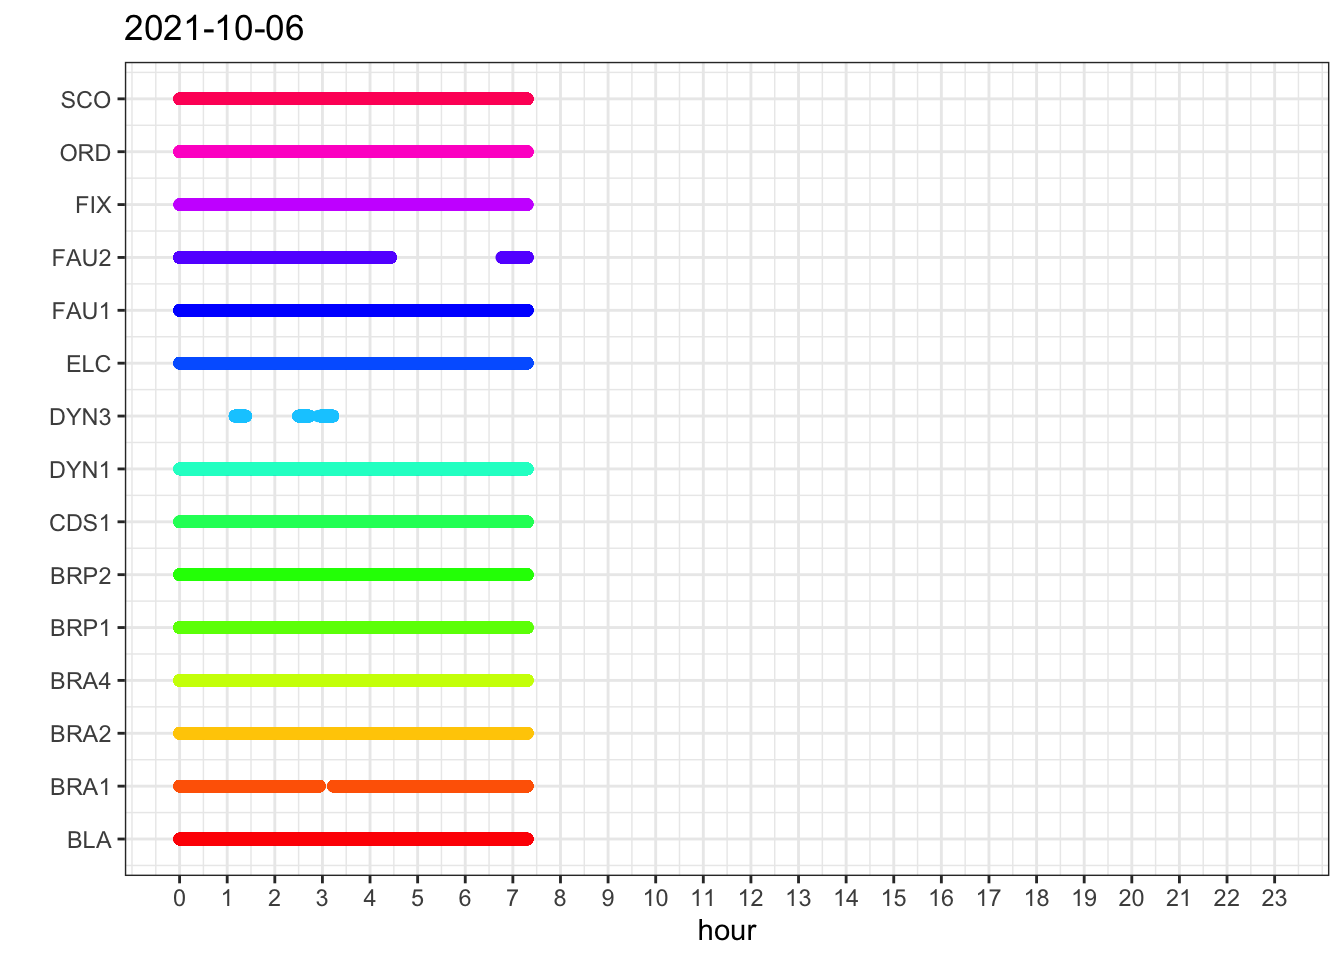
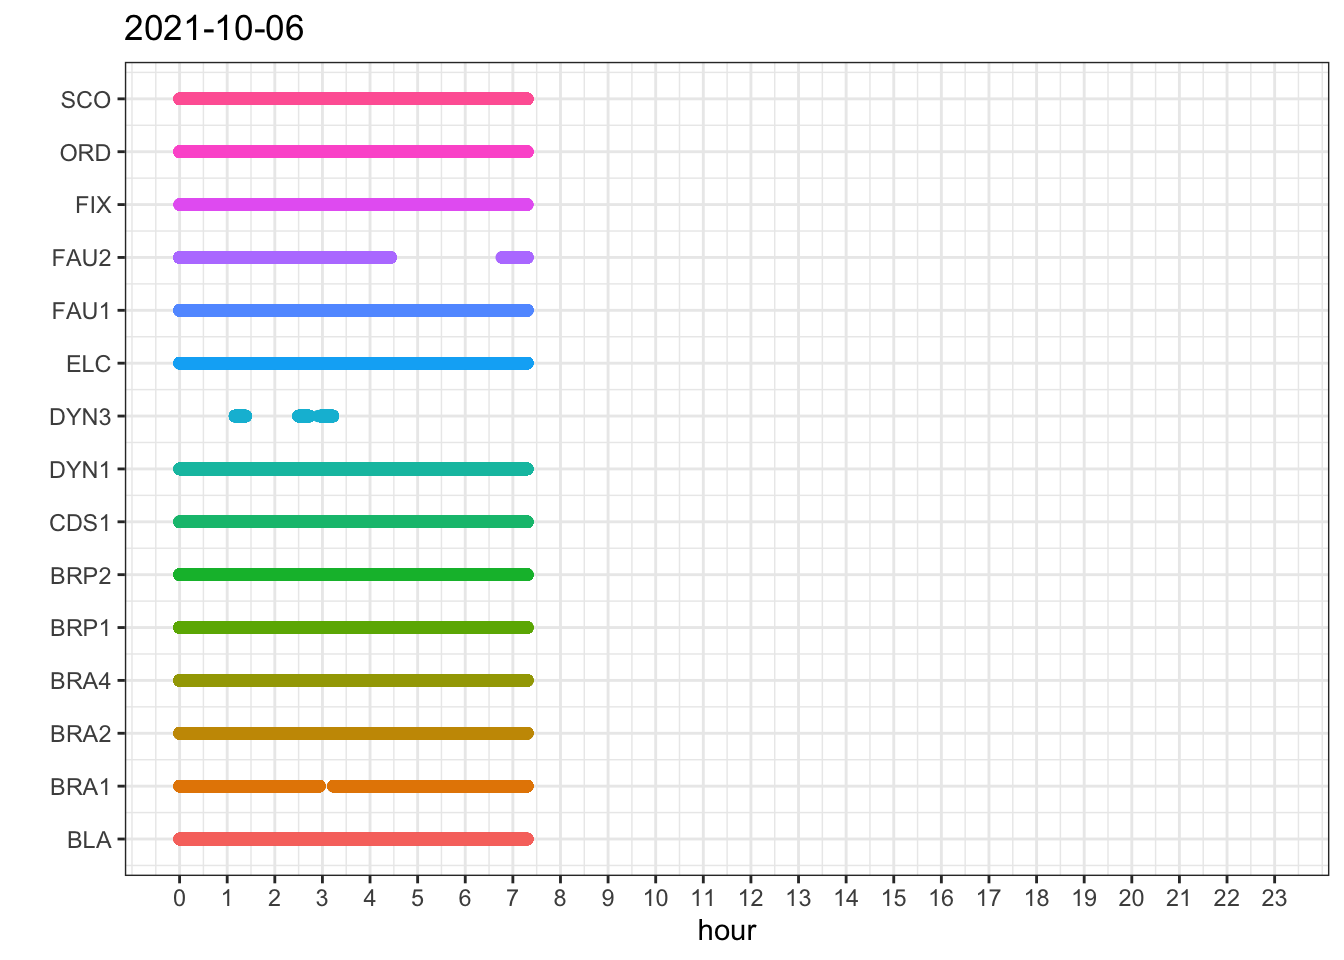
Build site.

diff --git a/docs/2021-10-06.html b/docs/2021-10-06.html
@@ -500,16 +500,16 @@ This reproducible <a href="http://rmarkdown.rstudio.com">R Markdown</a> analysis
 <div class="panel panel-default">
 <div class="panel-heading">
 <p class="panel-title">
-<a data-toggle="collapse" data-parent="#workflowr-checks" href="#strongRepositoryversionstrongahrefhttpsgithubcomcfcforeverTesttreed4686a5b7c323b6f8fc9f6ed21d5f6a88f3306fdtargetblankd4686a5a"> <span class="glyphicon glyphicon-ok text-success" aria-hidden="true"></span> <strong>Repository version:</strong> <a href="https://github.com/cfcforever/Test/tree/d4686a5b7c323b6f8fc9f6ed21d5f6a88f3306fd" target="_blank">d4686a5</a> </a>
+<a data-toggle="collapse" data-parent="#workflowr-checks" href="#strongRepositoryversionstrongahrefhttpsgithubcomcfcforeverTesttreecac84e2437b4902e4ec6ff223ca0dc577ba91d70targetblankcac84e2a"> <span class="glyphicon glyphicon-ok text-success" aria-hidden="true"></span> <strong>Repository version:</strong> <a href="https://github.com/cfcforever/Test/tree/cac84e2437b4902e4ec6ff223ca0dc577ba91d70" target="_blank">cac84e2</a> </a>
 </p>
 </div>
[2 lines of base64/hex data omitted]
 <div class="panel-body">
 <p>
 Great! You are using Git for version control. Tracking code development and connecting the code version to the results is critical for reproducibility.
 </p>
 <p>
-The results in this page were generated with repository version <a href="https://github.com/cfcforever/Test/tree/d4686a5b7c323b6f8fc9f6ed21d5f6a88f3306fd" target="_blank">d4686a5</a>. See the <em>Past versions</em> tab to see a history of the changes made to the R Markdown and HTML files.
+The results in this page were generated with repository version <a href="https://github.com/cfcforever/Test/tree/cac84e2437b4902e4ec6ff223ca0dc577ba91d70" target="_blank">cac84e2</a>. See the <em>Past versions</em> tab to see a history of the changes made to the R Markdown and HTML files.
 </p>
 <p>
 Note that you need to be careful to ensure that all relevant files for the analysis have been committed to Git prior to generating the results (you can use <code>wflow_publish</code> or <code>wflow_git_commit</code>). workflowr only checks the R Markdown file, but you know if there are other scripts or data files that it depends on. Below is the status of the Git repository when the results were generated:
@@ -519,12 +519,16 @@ Ignored files:
     Ignored:    .DS_Store
     Ignored:    .Rhistory
     Ignored:    .Rproj.user/
+    Ignored:    analysis/figure/
     Ignored:    data/.DS_Store
     Ignored:    data/Stabiliseur/
     Ignored:    data/json/
     Ignored:    data/plan/
     Ignored:    fig/
     Ignored:    workflowr.R
+
+Unstaged changes:
+    Modified:   code/packages_and_functions.R
 
 </code></pre>
 <p>
@@ -563,6 +567,40 @@ Message
 </tr>
 </thead>
 <tbody>
+<tr>
+<td>
+Rmd
+</td>
+<td>
+<a href="https://github.com/cfcforever/Test/blob/cac84e2437b4902e4ec6ff223ca0dc577ba91d70/analysis/2021-10-06.Rmd" target="_blank">cac84e2</a>
+</td>
+<td>
+cfcforever
+</td>
+<td>
+2021-10-06
+</td>
+<td>
+add new analysis
+</td>
+</tr>
+<tr>
+<td>
+html
+</td>
+<td>
+<a href="https://rawcdn.githack.com/cfcforever/Test/55e4cbfdf40e23aa346b6b56a73a1f43a320be62/docs/2021-10-06.html" target="_blank">55e4cbf</a>
+</td>
+<td>
+cfcforever
+</td>
+<td>
+2021-10-06
+</td>
+<td>
+Build site.
+</td>
+</tr>
 <tr>
 <td>
 Rmd
@@ -1903,7 +1941,7 @@ p &lt;- ggplot(dat) + theme_bw() +
   geom_point(aes(x=record_timestamp, y=tagn, col=tagn)) +
   scale_x_continuous(breaks = timestamp_breaks, labels = 0:23) +
   scale_y_continuous(breaks = 1:nb_tag, labels = names_tag$label) + 
-  scale_color_gradientn(colours = rainbow(nb_tag)) + 
+  scale_color_gradientn(colours = hue_pal()(nb_tag)) + 
   coord_cartesian(xlim = c(timestamp_breaks[1], timestamp_breaks[23]+3600)) +
   theme(legend.position = &quot;None&quot;) +
   labs(x = &quot;hour&quot;, y = &quot;&quot;, title = today)
@@ -1931,6 +1969,17 @@ Date
 </tr>
 </thead>
 <tbody>
+<tr>
+<td>
+<a href="https://github.com/cfcforever/Test/blob/55e4cbfdf40e23aa346b6b56a73a1f43a320be62/docs/figure/2021-10-06.Rmd/unnamed-chunk-6-1.png" target="_blank">55e4cbf</a>
+</td>
+<td>
+cfcforever
+</td>
+<td>
+2021-10-06
+</td>
+</tr>
 <tr>
 <td>
 <a href="https://github.com/cfcforever/Test/blob/1e1be160f66046a7a98e7504fb4597be795234ee/docs/figure/2021-10-06.Rmd/unnamed-chunk-6-1.png" target="_blank">1e1be16</a>
@@ -1964,7 +2013,7 @@ p &lt;- ggplot(dat) + theme_bw() +
   geom_point(aes(x=record_timestamp, y=tagn, col=tagn)) +
   scale_x_continuous(breaks = timestamp_breaks, labels = 0:23) +
   scale_y_continuous(breaks = 1:nb_tag, labels = names_tag$label) + 
-  scale_color_gradientn(colours = rainbow(nb_tag)) + 
+  scale_color_gradientn(colours = hue_pal()(nb_tag)) + 
   coord_cartesian(xlim = c(timestamp_breaks[1], timestamp_breaks[23]+3600)) +
   theme(legend.position = &quot;None&quot;) +
   labs(x = &quot;hour&quot;, y = &quot;&quot;, title = today)
@@ -1992,6 +2041,17 @@ Date
 </tr>
 </thead>
 <tbody>
+<tr>
+<td>
+<a href="https://github.com/cfcforever/Test/blob/55e4cbfdf40e23aa346b6b56a73a1f43a320be62/docs/figure/2021-10-06.Rmd/unnamed-chunk-8-1.png" target="_blank">55e4cbf</a>
+</td>
+<td>
+cfcforever
+</td>
+<td>
+2021-10-06
+</td>
+</tr>
 <tr>
 <td>
 <a href="https://github.com/cfcforever/Test/blob/1e1be160f66046a7a98e7504fb4597be795234ee/docs/figure/2021-10-06.Rmd/unnamed-chunk-8-1.png" target="_blank">1e1be16</a>
@@ -2049,10 +2109,8 @@ p &lt;- ggplot(plan) + theme_bw() +
       coord_equal(ratio = 1, xlim = c(-35,5), ylim = c(-60,5)) + 
       labs(x = &quot;&quot;, y = &quot;&quot;, title = paste0(tag, &quot; - &quot;, names_tag$Matériel[names_tag$id==tag]))
     print(q)
-    cat(&quot;\n&quot;)
   }else{
     cat(&quot;NO DATA for plot!!&quot;)
-    cat(&quot;\n&quot;)
   }
   cat(&quot;\n&quot;)
 }</code></pre>
@@ -2656,9 +2714,10 @@ attached base packages:
 [1] stats     graphics  grDevices utils     datasets  methods   base     
 
 other attached packages:
- [1] DT_0.17          readxl_1.3.1     lubridate_1.7.10 dplyr_1.0.6     
- [5] nnet_7.3-14      kableExtra_1.1.0 rjson_0.2.20     cowplot_1.1.0   
- [9] gifski_0.8.6     gganimate_1.0.7  ggplot2_3.3.3    workflowr_1.6.2 
+ [1] scales_1.1.1     DT_0.17          readxl_1.3.1     lubridate_1.7.10
+ [5] dplyr_1.0.6      nnet_7.3-14      kableExtra_1.1.0 rjson_0.2.20    
+ [9] cowplot_1.1.0    gifski_0.8.6     gganimate_1.0.7  ggplot2_3.3.3   
+[13] workflowr_1.6.2 
 
 loaded via a namespace (and not attached):
  [1] progress_1.2.2    tidyselect_1.1.0  xfun_0.25         purrr_0.3.4      
@@ -2669,13 +2728,13 @@ loaded via a namespace (and not attached):
 [21] cellranger_1.1.0  munsell_0.5.0     gtable_0.3.0      rvest_1.0.0      
 [25] htmlwidgets_1.5.1 evaluate_0.14     labeling_0.3      knitr_1.33       
 [29] httpuv_1.5.4      fansi_0.4.1       highr_0.8         Rcpp_1.0.5       
-[33] readr_1.4.0       promises_1.1.1    scales_1.1.1      backports_1.1.8  
-[37] webshot_0.5.2     farver_2.0.3      fs_1.5.0          hms_1.0.0        
-[41] digest_0.6.25     stringi_1.4.6     grid_4.0.2        rprojroot_1.3-2  
-[45] tools_4.0.2       magrittr_2.0.1    tibble_3.1.1      crayon_1.4.1     
-[49] whisker_0.4       pkgconfig_2.0.3   ellipsis_0.3.1    xml2_1.3.2       
-[53] prettyunits_1.1.1 httr_1.4.2        rstudioapi_0.13   assertthat_0.2.1 
-[57] rmarkdown_2.10    R6_2.4.1          git2r_0.28.0      compiler_4.0.2   </code></pre>
+[33] readr_1.4.0       promises_1.1.1    backports_1.1.8   webshot_0.5.2    
+[37] farver_2.0.3      fs_1.5.0          hms_1.0.0         digest_0.6.25    
+[41] stringi_1.4.6     grid_4.0.2        rprojroot_1.3-2   tools_4.0.2      
+[45] magrittr_2.0.1    tibble_3.1.1      crayon_1.4.1      whisker_0.4      
+[49] pkgconfig_2.0.3   ellipsis_0.3.1    xml2_1.3.2        prettyunits_1.1.1
+[53] httr_1.4.2        rstudioapi_0.13   assertthat_0.2.1  rmarkdown_2.10   
+[57] R6_2.4.1          git2r_0.28.0      compiler_4.0.2   </code></pre>
 </div>
 </div>
 </div>
